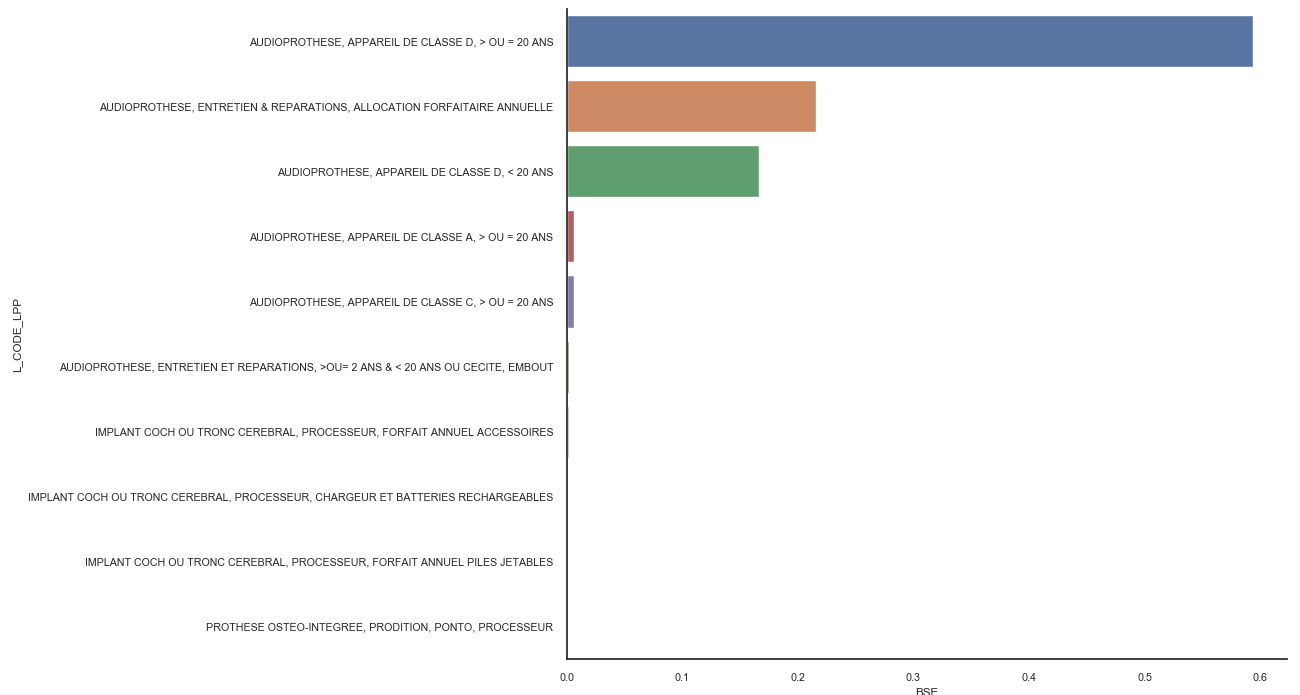
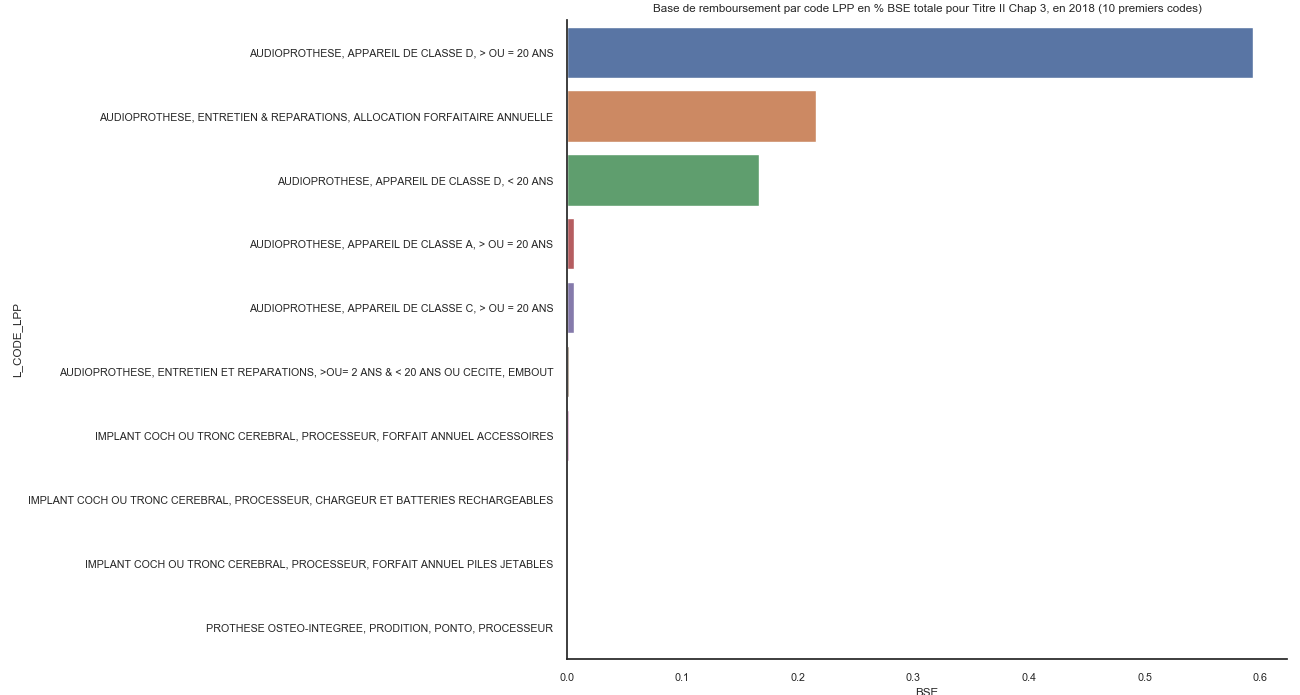
ajout titres graphes + mise en valeur chgts derniere section

diff --git a/fiches/audioprotheses.md b/fiches/audioprotheses.md
@@ -133,7 +133,7 @@ PROC SQL;
           t1.PRS_ORD_NUM = t2.PRS_ORD_NUM AND 
           t1.REM_TYP_AFF = t2.REM_TYP_AFF)
   )
-  WHERE t1.prs_nat_ref in ( **3541** , **3547**, **3549**, **3540** ) # ajout du code prestation prothèses RAC zéro
+  WHERE t1.prs_nat_ref in ( **3541** , **3547**, **3549**, **3540** ) 
         AND t1.dpn_qlf <> 71
   ;
 QUIT;
@@ -205,24 +205,31 @@ et entre `NT_HIS` et `lpp_histo_totVVV.dbf` d'autre part (où VVV désigne la ve
 Dans le code ci-dessus, les noms des variables sont ici transformés pour correspondre aux tables `NT_LPP` et `NT_HIS`.
 
 L'apparition de nouveaux codes dans le titre II chapitre 3, entre autres, est due à l'entrée en vigueur, au 1er 
-janvier 2019 et au 1er janvier 2020, de codes pour les deux classes définies pour le 100 % santé.
-Les codes LPP reprennent les dichotomies précédentes, en distinguant les appareils pour
-les moins de 20 ans et pour les plus de 20 ans ainsi que l'oreille gauche et droite. 
-A cela s'ajoute les distinctions Classe I et Classe II, ainsi que les distinctions par marque. 
-A noter que certains codes entrée en vigueur au 1er janvier 2019 sont prévus d'être en fin de validité
-au 31 décembre 2019, cela est dû à la mise en place progressive de la réforme et à l'évolution des
-nomenclatures en conséquence. Ainsi, un code mis en place au 1er janvier 2019 d'un appareil classe I
- a été remplacé par un ensemble de nouveaux codes au 1er janvier 2019 correspondant au même bien
- mais avec le détail des marques. La **distinction en classe A, B, C et D a pris fin** à la fin de l'année 2018.
+janvier 2019 et au 1er janvier 2020, de **codes pour les deux classes définies pour le 100 % santé**.
+Les codes LPP **reprennent les dichotomies précédentes**: 
+- en distinguant les appareils pour
+les moins de 20 ans et pour les plus de 20 ans 
+- ainsi que l'oreille gauche et droite. 
+- A cela s'ajoute les distinctions Classe I et Classe II,
+- ainsi que les distinctions par marque. 
+
+A noter que **certains codes entrés en vigueur au 1er janvier 2019 ont une fin de validité au
+ 31 décembre 2019**, cela est dû à la **mise en place progressive** de la réforme et à l'évolution des
+nomenclatures en conséquence. Par exemple, un code mis en place au 1er janvier 2019 pour un bien d'une certaine classe
+ pourra être remplacé par un ensemble de nouveaux codes au 1er janvier 2020 correspondant au même bien
+ mais avec le détail des marques. A noter que la **distinction en classe A, B, C et D**,
+  qui figure dans les graphiques ci-dessus, **a pris fin** à la fin de l'année 2018.
 
 
 
 ## Références
+
 - Documentation sur ameli [prise_en_charge_aides_auditives](https://www.ameli.fr/assure/remboursements/rembourse/optique-audition/protheses-auditives)
 - Point de repère CNAMTS : 
 [le_marche_des_audioprotheses_2015](https://www.ameli.fr/fileadmin/user_upload/documents/Points_de_repere_n_47___Le_marche_de_l_audioprothese_en_2015.pdf)
 - Nomenclature LPP sur ameli : [telechargement_lpp](http://www.codage.ext.cnamts.fr/codif/tips//telecharge/index_tele.php?p_site=AMELI)
 - Réforme du 100 % santé en audiologie : [site_ministère_santé](https://solidarites-sante.gouv.fr/systeme-de-sante-et-medico-social/100pourcent-sante/espace-professionnels/les-nouvelles-mesures-audiologie/article/la-reforme-100-sante-audiologie)
+
 ::: tip Crédits
 
 Le contenu original de cette fiche provient du document
